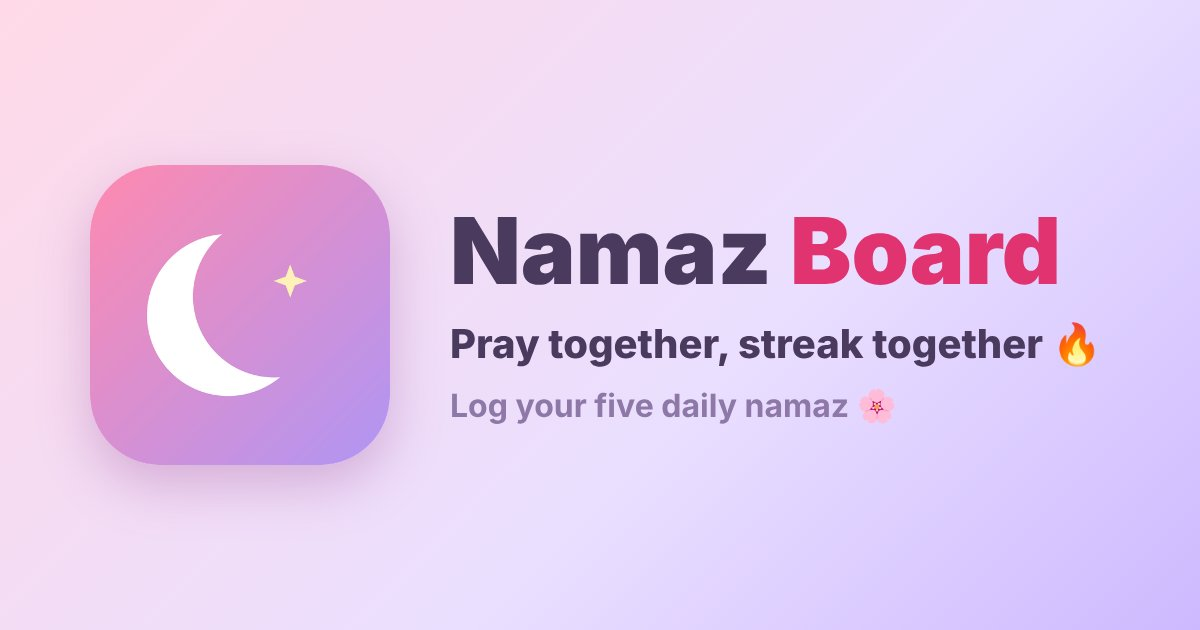
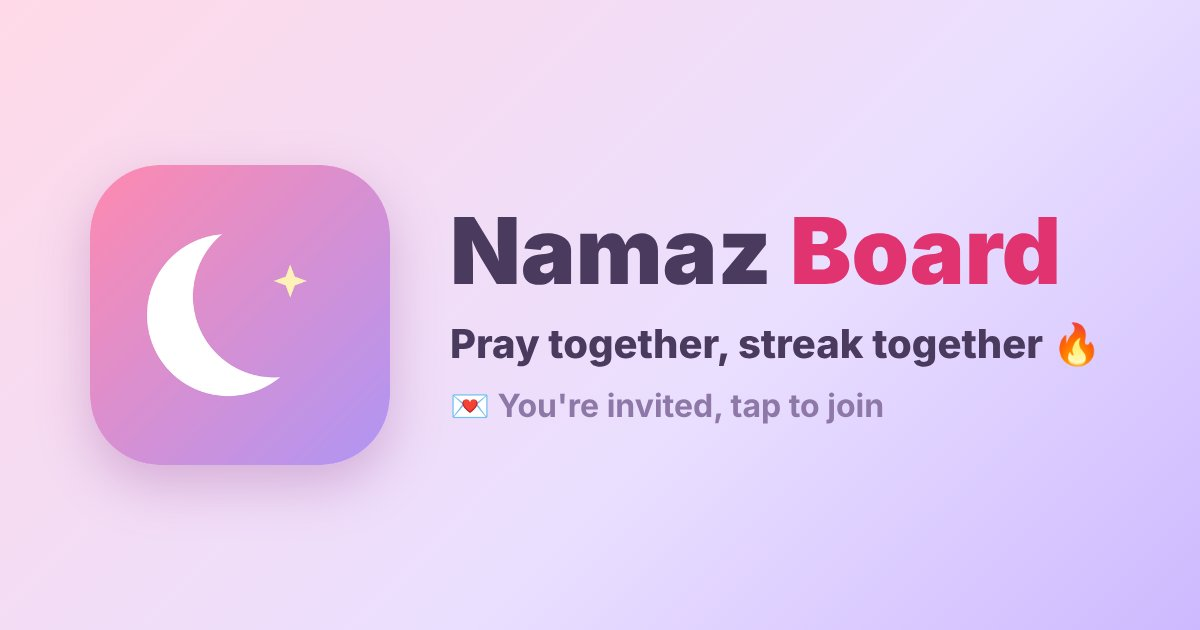
Invites read clearly as group invitations: message text, preview, and a big invite card on arrival
Claude-Session: https://claude.ai/code/session_01RMfmKsj5EdGNCweyKz1UDg

Changed region(s): [[0.37, 0.6032, 0.74, 0.6937]]

diff --git a/i18n.js b/i18n.js
@@ -78,7 +78,7 @@ const DICT = {
   "I'm hidden from the Everyone board. My groups still see my record.":"সবার বোর্ডে আমাকে দেখা যায় না। আমার গ্রুপ এখনো আমার রেকর্ড দেখে।",
   "Show my sunnah, nafl and tahajjud to my groups":"আমার গ্রুপকে আমার সুন্নত, নফল ও তাহাজ্জুদ দেখান",
   "✨ How Namaz Board works":"✨ নামাজ বোর্ড কীভাবে কাজ করে","Privacy":"গোপনীয়তা","Sign out":"সাইন আউট","Delete my account":"আমার অ্যাকাউন্ট মুছুন","Tap again: delete everything":"আবার চাপুন: সব মুছে যাবে",
-  "Language":"ভাষা","🔗 Copy link":"🔗 লিংক কপি","More…":"আরও…","Email":"ইমেইল","Or tell them the code":"অথবা কোডটি বলুন","to type in":"যা লিখবে","Fardh you've missed since joining show up here by themselves. Tap":"যোগ দেওয়ার পর বাদ যাওয়া ফরজ নিজে থেকেই এখানে আসে। কাজা পড়লে প্রতিবার","each time you pray one as qaza. Only you can see this list.":"চাপুন। এই তালিকা শুধু আপনি দেখতে পান।","No missed fardh so far. MashaAllah ✨":"এখনো কোনো ফরজ বাদ যায়নি। মাশাআল্লাহ ✨","Missed one today or yesterday? You can also tap":"আজ বা গতকাল বাদ গেছে? সেই নামাজে","on that namaz.":"চাপতে পারেন।","Invite link copied 🔗 Paste it in a chat. Tapping it opens the group.":"আমন্ত্রণ লিংক কপি হয়েছে 🔗 চ্যাটে পেস্ট করুন, চাপলেই গ্রুপ খুলবে।","Download ⬇":"ডাউনলোড ⬇","Made up as qaza 🤲":"কাজা আদায় হয়েছে 🤲","🤲 Prayed as qaza":"🤲 কাজা পড়েছি","🤲 Prayed as qaza ✓":"🤲 কাজা পড়েছি ✓","Missed it? Mark it once you make it up.":"বাদ গেছে? কাজা পড়ার পর চিহ্ন দিন।",
+  "Language":"ভাষা","🔗 Copy invite":"🔗 আমন্ত্রণ কপি","Invite copied 🔗 Paste it in a chat. Tapping the link opens the group.":"আমন্ত্রণ কপি হয়েছে 🔗 চ্যাটে পেস্ট করুন, লিংকে চাপলেই গ্রুপ খুলবে।","You're invited to":"আপনাকে আমন্ত্রণ জানানো হয়েছে","More…":"আরও…","Email":"ইমেইল","Or tell them the code":"অথবা কোডটি বলুন","to type in":"যা লিখবে","Fardh you've missed since joining show up here by themselves. Tap":"যোগ দেওয়ার পর বাদ যাওয়া ফরজ নিজে থেকেই এখানে আসে। কাজা পড়লে প্রতিবার","each time you pray one as qaza. Only you can see this list.":"চাপুন। এই তালিকা শুধু আপনি দেখতে পান।","No missed fardh so far. MashaAllah ✨":"এখনো কোনো ফরজ বাদ যায়নি। মাশাআল্লাহ ✨","Missed one today or yesterday? You can also tap":"আজ বা গতকাল বাদ গেছে? সেই নামাজে","on that namaz.":"চাপতে পারেন।","Invite link copied 🔗 Paste it in a chat. Tapping it opens the group.":"আমন্ত্রণ লিংক কপি হয়েছে 🔗 চ্যাটে পেস্ট করুন, চাপলেই গ্রুপ খুলবে।","Download ⬇":"ডাউনলোড ⬇","Made up as qaza 🤲":"কাজা আদায় হয়েছে 🤲","🤲 Prayed as qaza":"🤲 কাজা পড়েছি","🤲 Prayed as qaza ✓":"🤲 কাজা পড়েছি ✓","Missed it? Mark it once you make it up.":"বাদ গেছে? কাজা পড়ার পর চিহ্ন দিন।",
   "Made up as qaza 🤲 MashaAllah":"কাজা আদায় হয়েছে 🤲 মাশাআল্লাহ","Missed before joining":"যোগ দেওয়ার আগে বাদ","Keep count of missed prayers you're making up. Only you can see this list.":"যে নামাজগুলো কাজা আদায় করছেন তার হিসাব। এই তালিকা শুধু আপনি দেখতে পান।",
   "Fardh you miss in the app are added here by themselves. Type how many you missed":"অ্যাপে বাদ যাওয়া ফরজ নিজে থেকেই এখানে যোগ হয়। যোগ দেওয়ার আগে কত বাদ গেছে লিখুন","before joining":"","made up as qaza":"কাজা হিসেবে আদায়","📊 This week":"📊 এই সপ্তাহ","⬇ Download my week card":"⬇ সপ্তাহের কার্ড ডাউনলোড করুন","Or press and hold the picture to save it to your photos.":"অথবা ছবিটি চেপে ধরে ফটোতে সেভ করুন।","Close":"বন্ধ করুন","Saved to your downloads ⬇":"ডাউনলোডে সেভ হয়েছে ⬇",
   "Weekly recap":"সাপ্তাহিক সারসংক্ষেপ","Sunday at 8 pm: your week's fardh and streak, with a card you can save":"রবিবার রাত ৮টায়: সপ্তাহের ফরজ আর স্ট্রিক, সেভ করার কার্ডসহ","Leave this account?":"এই অ্যাকাউন্ট ছেড়ে যাবেন?","This account has no email, so the":"এই অ্যাকাউন্টে কোনো ইমেইল নেই, তাই","only":"একমাত্র","way back in is its Namaz Board code:":"ফেরার উপায় এর নামাজ বোর্ড কোড:","way back in is its Namaz Board code.":"ফেরার উপায় এর নামাজ বোর্ড কোড।","Copy code":"কোড কপি","Stay here":"এখানেই থাকুন","Leave account":"অ্যাকাউন্ট ছাড়ুন",
@@ -146,6 +146,7 @@ const DICT = {
 };
 
 const RULES = [
+  [/^(?:(\d+) friends? already keeping their namaz here\. )?Sign in below and ask to join, then you'll join the group\.$/, (_,n) => `${n ? n+" জন বন্ধু এখানে নামাজের হিসাব রাখছে। " : ""}নিচে সাইন ইন করে যোগ দেওয়ার অনুরোধ পাঠান, তারপর গ্রুপে যোগ দেবেন।`],
   [/^Invite to$/, () => "আমন্ত্রণ:"],
   [/^(\d+) missed since you joined$/, (_,n) => `যোগ দেওয়ার পর ${n}টি বাদ`],
   [/^Code (\w+) copied\. Friends type it in Join a group\.$/, (_,c) => `কোড ${c} কপি হয়েছে। বন্ধুরা "গ্রুপে যোগ দিন"-এ লিখবে।`],

diff --git a/app.js b/app.js
@@ -872,15 +872,15 @@ function viewBoard(){
   let html = chips + `<section class="ghead"><div><h3 data-notr>${esc(g.name)}</h3><p>${ids.length} member${ids.length===1?"":"s"} · 🔥 Streaks & rings</p><button class="gcode" data-act="gcopy" data-link="${esc(link)}" data-code="${g.code}" title="Copy the code">Code <b data-notr>${g.code}</b> ⧉</button></div>
     <div class="btns"><button class="ghost ${S.inviteOpen?"on":""}" data-act="ginvitemenu" aria-expanded="${!!S.inviteOpen}">Invite</button><button class="ghost" data-act="gmanage">${isOwner?"Manage":"Info"}</button></div></section>`;
   if (S.inviteOpen){
-    const msg = encodeURIComponent(`Join my Namaz Board group "${g.name}" 🌸 ${link}`);
+    const msg = encodeURIComponent(inviteText(g.name, link));
     html += `<section class="panel invitebox"><h3>Invite to <span data-notr>${esc(g.name)}</span></h3>
       <div class="invlink" data-notr>${esc(link)}</div>
       <div class="invbtns">
-        <button class="primary" data-act="ginvite" data-link="${esc(link)}">🔗 Copy link</button>
+        <button class="primary" data-act="ginvite" data-link="${esc(link)}" data-name="${esc(g.name)}">🔗 Copy invite</button>
         <a class="ghost btnlink" href="https://wa.me/?text=${msg}" target="_blank" rel="noopener">WhatsApp</a>
-        <a class="ghost btnlink" href="https://t.me/share/url?url=${encodeURIComponent(link)}&text=${encodeURIComponent("Join my Namaz Board group 🌸")}" target="_blank" rel="noopener">Telegram</a>
-        <a class="ghost btnlink" href="mailto:?subject=${encodeURIComponent("Join my Namaz Board group 🌸")}&body=${msg}">Email</a>
-        ${navigator.share ? `<button class="ghost" data-act="gshare" data-link="${esc(link)}">More…</button>` : ""}
+        <a class="ghost btnlink" href="https://t.me/share/url?url=${encodeURIComponent(link)}&text=${encodeURIComponent(`🌸 You're invited to join "${g.name}" on Namaz Board! Let's keep our namaz together.`)}" target="_blank" rel="noopener">Telegram</a>
+        <a class="ghost btnlink" href="mailto:?subject=${encodeURIComponent(`You're invited to "${g.name}" on Namaz Board 🌸`)}&body=${msg}">Email</a>
+        ${navigator.share ? `<button class="ghost" data-act="gshare" data-link="${esc(link)}" data-name="${esc(g.name)}">More…</button>` : ""}
       </div>
       <p class="note">Or tell them the code <b data-notr>${g.code}</b> to type in <b>Join a group</b>.</p></section>`;
   }
@@ -1353,9 +1353,12 @@ function viewLogin(){
     <p class="altlogin">Signed up without email before? <button class="linkbtn" data-act="restore">Sign in with your Namaz Board code</button></p>
     <p class="note">New here? Sign in and tap <b>Ask to join</b>. ${esc(CONF.ownerName||"The board owner")} will approve you.</p></section>` + watermark();
 }
+/* The text sent with an invite link: says clearly it's an invitation to a group, link on its own line so it stays tappable. */
+const inviteText = (name, link) => `🌸 You're invited to join "${name}" on Namaz Board!\nLet's keep our namaz together 🤲\n\nTap to join: ${link}`;
 function inviteBanner(){
   const pv = S.linkGroup; if (!pv?.name) return "";
-  return `<div class="notice"><span>👥 You're invited to <b data-notr>${esc(pv.name)}</b>. Join the board first, then you'll be asked to join the group.</span></div>`;
+  return `<section class="panel invitehero"><div class="ih-emoji">💌</div><h3>You're invited to<br><span data-notr>${esc(pv.name)}</span></h3>
+    <p>${pv.members ? `${pv.members} friend${pv.members===1?"":"s"} already keeping their namaz here. ` : ""}Sign in below and ask to join, then you'll join the group.</p></section>`;
 }
 function viewNotInvited(){
   const owner = esc(CONF.ownerName||"the board owner");
@@ -1599,11 +1602,11 @@ document.addEventListener("click", async e => {
   else if (a==="gcancel"){ S.gform = null; render(); }
   else if (a==="gmanage"){ S.gmanage = !S.gmanage; render(); }
   else if (a==="ginvitemenu"){ S.inviteOpen = !S.inviteOpen; render(); }
-  else if (a==="gshare"){ try { await navigator.share({title:"Join my Namaz Board group 🌸", url:b.dataset.link}); } catch {} }
+  else if (a==="gshare"){ try { await navigator.share({title:`Join "${b.dataset.name}" on Namaz Board 🌸`, text:inviteText(b.dataset.name, b.dataset.link)}); } catch {} }
   else if (a==="ginvite"){
     // Just the link: pasted into a chat it becomes a tappable card that opens the group.
-    const link = b.dataset.link;
-    try { await navigator.clipboard.writeText(link); toast("Invite link copied 🔗 Paste it in a chat. Tapping it opens the group."); } catch { toast(link); }
+    const text = inviteText(b.dataset.name, b.dataset.link);
+    try { await navigator.clipboard.writeText(text); toast("Invite copied 🔗 Paste it in a chat. Tapping the link opens the group."); } catch { toast(b.dataset.link); }
   }
   else if (a==="gcopy"){
     try { await navigator.clipboard.writeText(b.dataset.code); toast(`Code ${b.dataset.code} copied. Friends type it in Join a group.`); } catch { toast(`Group code: ${b.dataset.code}`); }

diff --git a/index.html b/index.html
@@ -6,9 +6,9 @@
 <title>Namaz Board</title>
 <meta name="description" content="Log your daily namaz, keep your streak, cheer on your friends.">
 <meta name="theme-color" content="#FF8AB0">
-<meta property="og:title" content="Namaz Board 🌙">
-<meta property="og:description" content="Pray together, streak together 🔥 Log your five daily namaz and keep each other going.">
-<meta property="og:image" content="https://ssshupti.github.io/namaz-board/icons/og.jpg">
+<meta property="og:title" content="You're invited to Namaz Board 🌸">
+<meta property="og:description" content="Join your friends' group: log your five daily namaz and keep your streak going together 🔥">
+<meta property="og:image" content="https://ssshupti.github.io/namaz-board/icons/og.jpg?v=2">
 <meta property="og:image:width" content="1200"><meta property="og:image:height" content="630">
 <meta property="og:url" content="https://ssshupti.github.io/namaz-board/">
 <meta property="og:type" content="website">
@@ -23,7 +23,7 @@
 <link rel="preconnect" href="https://fonts.googleapis.com">
 <link rel="preconnect" href="https://fonts.gstatic.com" crossorigin>
 <link rel="stylesheet" href="https://fonts.googleapis.com/css2?family=Baloo+Da+2:wght@500;600;700;800&family=Nunito:wght@500;600;700;800&display=swap">
-<link rel="stylesheet" href="style.css?v=61">
+<link rel="stylesheet" href="style.css?v=62">
 </head>
 <body>
 <svg width="0" height="0" style="position:absolute" aria-hidden="true"><defs>
@@ -50,8 +50,8 @@
 <canvas id="fx" hidden></canvas>
 <script src="vendor/adhan.js"></script>
 <script src="vendor/supabase.js"></script>
-<script src="config.js?v=61"></script>
-<script src="i18n.js?v=61"></script>
-<script src="app.js?v=61"></script>
+<script src="config.js?v=62"></script>
+<script src="i18n.js?v=62"></script>
+<script src="app.js?v=62"></script>
 </body>
 </html>

diff --git a/sw.js b/sw.js
@@ -1,5 +1,5 @@
 // Namaz Board service worker: shows push notifications and keeps the app shell available offline.
-const CACHE = "namaz-v61";
+const CACHE = "namaz-v62";
 const SHELL = ["./", "./index.html", "./style.css", "./app.js", "./config.js", "./i18n.js", "./vendor/adhan.js", "./vendor/supabase.js", "./manifest.webmanifest", "./icons/icon-192.png", "./icons/badge-96.png"];
 
 self.addEventListener("install", e => { e.waitUntil(caches.open(CACHE).then(c => c.addAll(SHELL)).then(() => self.skipWaiting())); });

diff --git a/style.css b/style.css
@@ -489,3 +489,7 @@ html[lang="bn"] .bn{display:none}
 .invbtns{display:flex;flex-wrap:wrap;gap:8px}
 .invbtns > *{flex:1 1 auto}
 .ghost.on{background:var(--off)}
+.invitehero{text-align:center;border:2px dashed var(--rose);background:linear-gradient(160deg,var(--surface),color-mix(in srgb,var(--rose) 10%,var(--surface)))}
+.invitehero .ih-emoji{font-size:44px;line-height:1;margin-bottom:6px}
+.invitehero h3{font-size:22px;line-height:1.25}
+.invitehero h3 span{color:var(--rose);font-size:28px}
